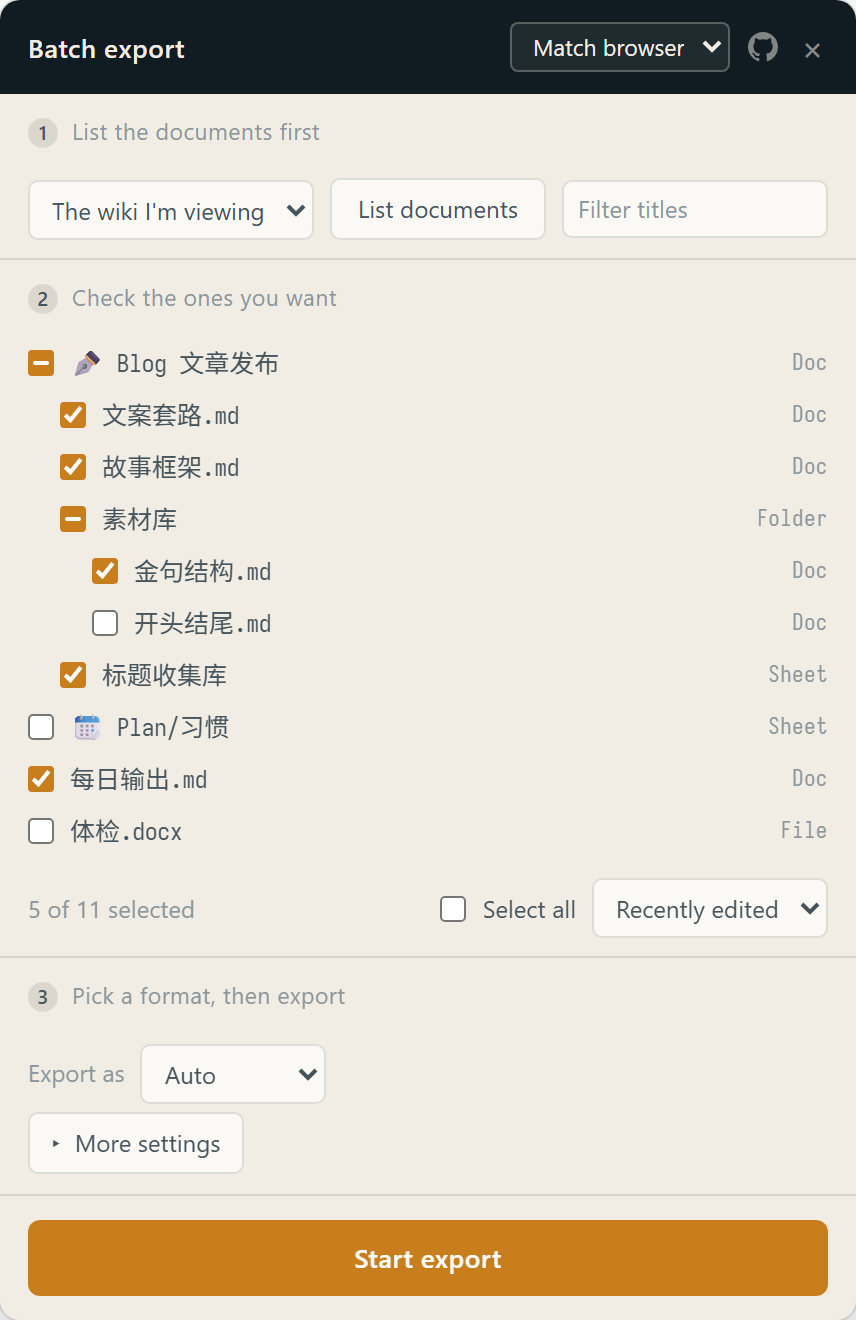
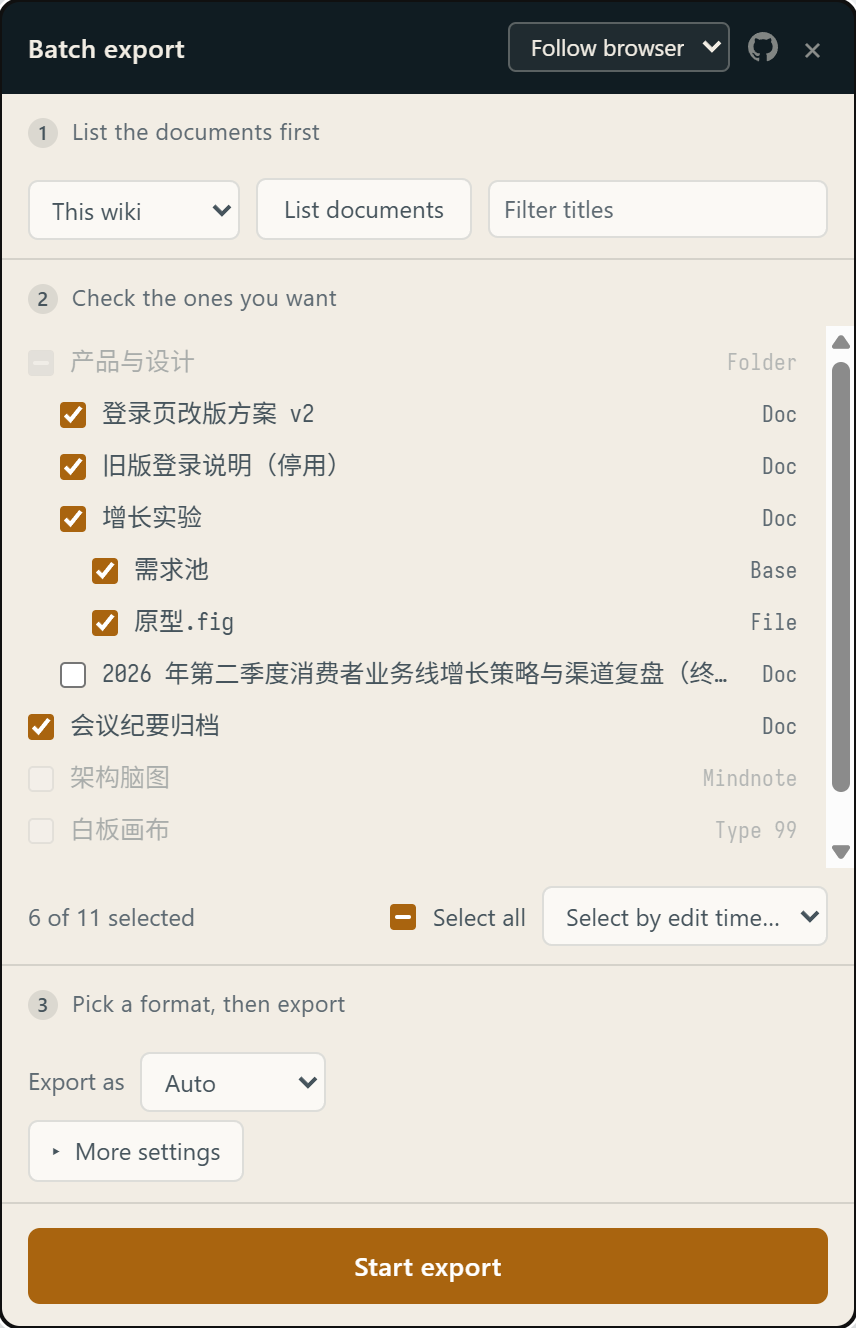
docs: sync quoted UI strings in README and docs, retake panel shots

diff --git a/README.en.md b/README.en.md
@@ -49,16 +49,16 @@ Notes on URL lists:
 
 - Listing does not open each page. Plain documents are shown by ID first and get Feishu's real title after a successful export; wiki links need one API call each to convert the token, 0.4 s apart, so long lists take a while.
 - Direct file links fetch the original filename first and fall back to the ID when it cannot be read.
-- Links carry no modification time, so the **Recently edited** selector does not apply to TXT rows; check them manually.
+- Links carry no modification time, so the **Select by edit time** menu does not apply to TXT rows; check them manually.
 - Entries that are missing, inaccessible, or malformed keep their link in the log and the rest continue; if every link fails, an explicit error is shown.
 
 ### 2. Check what to export
 
-Checking a folder **checks everything under it**; **Alt-click** affects only that row. A dash in the box means the row itself is unchecked but something under it is checked — the dash itself never exports anything.
+Checking a row with children **checks everything under it**; **Alt-click** affects only that row. A dash in the box means the row itself is unchecked but something under it is checked — the dash itself never exports anything.
 
 Types that cannot be exported (mindnotes) are disabled and cannot be checked.
 
-**Recently edited** checks everything changed in the last 7 / 30 / 90 days, which suits incremental backups.
+**Select by edit time** checks everything changed in the last 7 / 30 / 90 days, which suits incremental backups.
 
 ### 3. Pick a format and export
 
@@ -111,7 +111,7 @@ So the `.mm` file is serialised in the frontend from the in-memory document mode
 
 - **Exports run serially, 1.5 s apart.** Export is a queued job on Feishu's side and concurrency invites rate limiting. Allow a few minutes for a few dozen documents. The interval is a conservative estimate — the real threshold was not measured — and is currently a code constant, not a setting.
 - **Packing uses memory.** Everything is collected before zipping. Content is held as Blobs rather than in the JS heap, so batches of a few hundred MB are fine; there is no zip64, and exceeding ZIP32 limits (file count, size, offsets) reports an error instead of producing a corrupt archive. The zip uses STORE with no compression — docx / pdf / xlsx / png are already compressed.
-- A failed document does not stop the queue; it gets one log line, and a **Retry N that failed** button appears afterwards.
+- A failed document does not stop the queue; it gets one log line, and a **Retry N failed** button appears afterwards.
 - The extension only uses the session already in your browser to call Feishu's own web endpoints. **Nothing is uploaded and there is no server.** The background script only forwards toolbar clicks, reads locale files, and reads original filenames for direct file links. See [`PRIVACY.md`](PRIVACY.md).
 - These are Feishu's internal endpoints, so a redesign can break them. Endpoint details and the measured type matrix are in [`docs/how-it-works.md`](docs/how-it-works.md) for comparison when fixing.
 

diff --git a/README.md b/README.md
@@ -49,16 +49,16 @@ URL 列表的几点说明：
 
 - 列出时不逐篇打开网页。普通文档先以 ID 显示，导出成功后文件名改用飞书返回的真实标题；知识库链接需要逐条调接口转换 token，每条间隔 0.4 秒，链接多时会慢一些。
 - 附件直链会先读取原文件名，读不到时用 ID 命名。
-- 链接不带修改时间，所以「最近改过的」批量勾选对 TXT 来源无效，需要手动勾。
+- 链接不带修改时间，所以「按修改时间勾选」对 TXT 来源无效，需要手动勾。
 - 页面不存在、没有权限或链接格式错误的条目会在日志里保留对应链接，其余继续处理；如果所有链接都失败，会明确报错。
 
 ### 2. 勾选要导出的
 
-勾选目录会**连带勾上它下面的全部文档**；按住 **Alt** 点击则只作用于该条本身。方框里显示一横（半选）表示这条自己没选中，但它下面有选中项，半选本身不参与导出。
+勾选带子文档的条目会**连带勾上它下面的全部文档**；按住 **Alt** 点击则只作用于该条本身。方框里显示一横（半选）表示这条自己没选中，但它下面有选中项，半选本身不参与导出。
 
 导不了的类型（思维笔记）是禁用状态，不能勾选。
 
-「最近改过的」可以一次勾出 7 / 30 / 90 天内改过的文档，适合做增量备份。
+「按修改时间勾选」可以一次勾出 7 / 30 / 90 天内改过的文档，适合做增量备份。
 
 ### 3. 选格式，导出
 

diff --git a/docs/store-listing.md b/docs/store-listing.md
@@ -67,7 +67,7 @@
 > 这不是锦上添花：飞书导出的 Markdown 里，图片是一串带签名的链接，约 24 小时后失效。不存下来的话，你的备份过几天就只剩文字了。扩展会把图片抓进 zip，并把链接改成相对路径。
 >
 > **省心的地方**
-> 目录结构原样保留；勾目录连带勾上它下面的全部文档，按住 Alt 只选当前这条；「最近改过的」一次勾出 7 / 30 / 90 天内改动的，适合增量备份；多个文件自动打包成一个 zip，不会触发浏览器的多文件下载弹窗；串行导出并显示进度和剩余时间；单篇失败不中断队列，跑完可以重试。
+> 目录结构原样保留；勾选带子文档的条目连带勾上它下面的全部文档，按住 Alt 只选当前这条；「按修改时间勾选」一次勾出 7 / 30 / 90 天内改动的，适合增量备份；多个文件自动打包成一个 zip，不会触发浏览器的多文件下载弹窗；串行导出并显示进度和剩余时间；单篇失败不中断队列，跑完可以重试。
 >
 > **隐私**
 > 没有服务端，不收集任何数据。只用你浏览器里已有的登录态调用飞书自己的接口，文档只在你的浏览器和本地磁盘之间流动。代码开源，没有压缩或混淆的文件。

diff --git a/docs/how-it-works.md b/docs/how-it-works.md
@@ -69,7 +69,7 @@ Lark 侧复验结论：`/space/api/...` 路径、返回结构、虚拟根返回 
 空间根节点：从当前 `wiki_token` 沿 `parent_wiki_token` 一路往上爬到没有父节点为止。
 
 **四个来源，三种起点。** 知识库和「当前文件夹」都从**当前页面**往下扫，
-「我的云空间」从 `my_space` 的根往下扫，「URL列表 TXT」则逐行读取用户明确给出的文档。
+「我的云空间」从 `my_space` 的根往下扫，「URL 列表 TXT」则逐行读取用户明确给出的文档。
 这个区别不是实现细节 —— 别人分享给你的
 文件夹**不在你自己空间的根下**，所以只有前者能导出它。少了「当前文件夹」
 这个来源时，症状是：在共享文件夹页上选知识库报「这不是知识库文档页」，选我的
